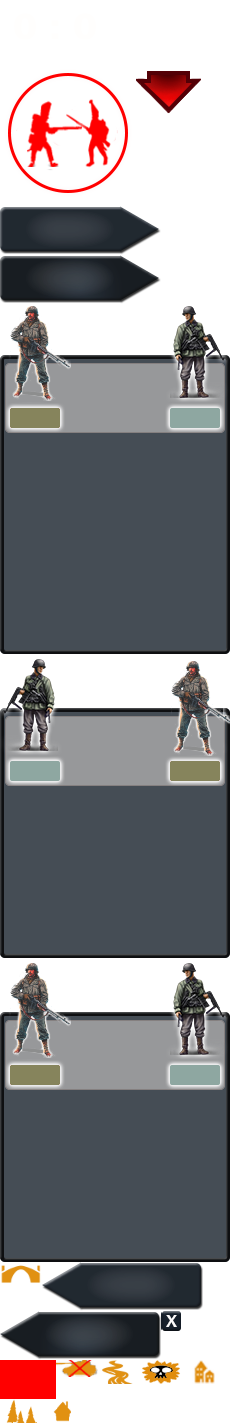
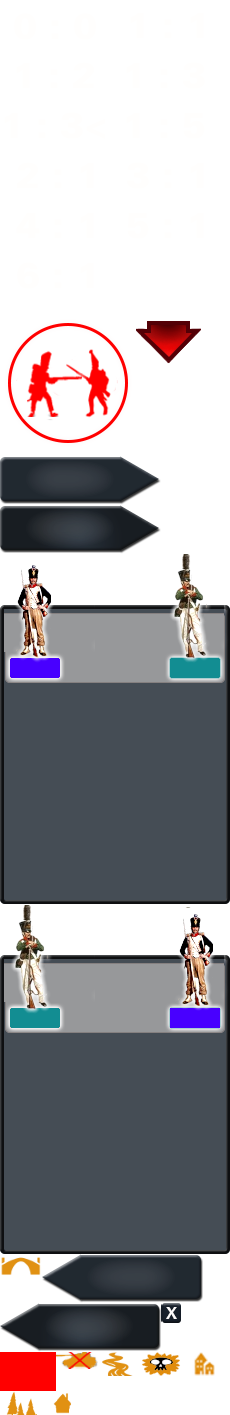
Refactor: Combat Display and CRT Window Management
- Added `checkOutsideWindow` method to `CombatDisplay` to determine if a click is outside the combat display window, considering drag events.
- Added `checkOutsideWindow` method to `WinCRT` to determine if a click is outside the CRT window.
- Modified `WinStackCombat` to use the new `checkOutsideWindow` methods from `CombatDisplay` and `WinCRT` to correctly handle clicks outside the combat stack and CRT windows.
- Updated `combat.txt` and `combat.png` to reflect changes in combat UI elements and layout.
  - Renamed `backgroundgerman` to `backgroundrussian`.
  - Added new odds ratio images (1to1, 1to2, 1to3, 1to4, 1to5, 2to1, 3to1, 4to1, 5to1, 6to1).
  - Adjusted positions and sizes of various UI elements.

diff --git a/core/src/brunibeargames/CombatDisplay.java b/core/src/brunibeargames/CombatDisplay.java
@@ -24,7 +24,7 @@ public class CombatDisplay {
     TextureRegion tRiver =  textureAtlas.findRegion("river");
     TextureRegion tTown =  textureAtlas.findRegion("town");
     TextureRegion tTrees =  textureAtlas.findRegion("trees");
-    TextureRegion tBackGerman =  textureAtlas.findRegion("backgroundgerman");
+    TextureRegion tBackRussian =  textureAtlas.findRegion("backgroundrussiann");
     TextureRegion tBackAllied =  textureAtlas.findRegion("backgroundallied");
     TextureRegion tVillage =  textureAtlas.findRegion("village");
     TextureRegion tSurpise =  textureAtlas.findRegion("surprise");
@@ -96,7 +96,7 @@ public class CombatDisplay {
         if (attack.isAllies()){
             background.setDrawable(new TextureRegionDrawable(tBackAllied));
         }else{
-            background.setDrawable(new TextureRegionDrawable(tBackGerman));
+            background.setDrawable(new TextureRegionDrawable(tBackRussian));
         }
 
         int yposition = showIcons(attack.getHexTarget(),  attack);
@@ -109,10 +109,11 @@ public class CombatDisplay {
     public Attack getAttack(){
         return attack;
     }
-
+    boolean haBeenDragged = false;
     public void end(){
         group.setVisible(false);
         WinCRT.instance.end();
+        haBeenDragged = false;
         if (hexGroup != null) {
             //hexGroup.clear();
         }
@@ -200,7 +201,7 @@ public class CombatDisplay {
 
     private void initializeBackgroundImage(){
 
-        background = new Image(tBackGerman);
+        background = new Image(tBackRussian);
         background.setHeight(360);
         background.setWidth(236);
         background.setPosition((Gdx.graphics.getWidth() - (background.getWidth() +160)), (Gdx.graphics.getHeight() - background.getHeight() - 16 ));
@@ -208,6 +209,11 @@ public class CombatDisplay {
         background.addListener(new DragListener() {
             public void drag(InputEvent event, float x, float y, int pointer) {
                 group.moveBy(x - 20, y - 20);
+                haBeenDragged = true;
+                Gdx.app.log("CombatDisplay", "dragging");
+                Gdx.app.log("CombatDisplay", "x+y="+background.getX()+"  "+background.getY());
+
+
             }
         });
 
@@ -331,6 +337,26 @@ public class CombatDisplay {
 
         group.addActor(alliedCombatFactors);
     }
+
+    public boolean checkOutsideWindow(int x, int y) {
+    /*        float winStartx = background.getX();
+            float winEndx = background.getX() + background.getWidth();
+            float winStarty = background.getY();
+            float winEndy = background.getY() + background.getHeight();
+            int reverse = Gdx.graphics.getHeight() - y;
+            if (x < winStartx || x > winEndx || reverse < winStarty || reverse > winEndy) {
+                return true;
+            } else {
+                return false;
+            } */
+            if (haBeenDragged){
+                haBeenDragged = false;
+                return false;
+            }else{
+                return true;
+            }
+    }
 }
+
 
 

diff --git a/core/src/brunibeargames/UI/WinStackCombat.java b/core/src/brunibeargames/UI/WinStackCombat.java
@@ -26,6 +26,7 @@ import java.util.Observer;
 import brunibeargames.Attack;
 import brunibeargames.Borodino;
 import brunibeargames.Combat;
+import brunibeargames.CombatDisplay;
 import brunibeargames.Fonts;
 import brunibeargames.GameMenuLoader;
 import brunibeargames.GamePreferences;
@@ -36,6 +37,7 @@ import brunibeargames.UILoader;
 import brunibeargames.Unit.ClickAction;
 import brunibeargames.Unit.Counter;
 import brunibeargames.Unit.Unit;
+import brunibeargames.WinCRT;
 
 import static com.badlogic.gdx.graphics.Color.WHITE;
 
@@ -211,7 +213,11 @@ public class WinStackCombat implements Observer {
         float  winEndy = window.getY()+window.getHeight();
         int reverse = Gdx.graphics.getHeight() - op.y;
         if (op.x < winStartx || op.x > winEndx || reverse < winStarty || reverse > winEndy) {
-            cancel();
+            if (WinCRT.instance.checkOutsideWindow(op.x, op.y)){
+                if (CombatDisplay.instance.checkOutsideWindow(op.x,op.y)){
+                    cancel();
+                 }
+            }
         }
     }
 

diff --git a/core/src/brunibeargames/WinCRT.java b/core/src/brunibeargames/WinCRT.java
@@ -307,7 +307,16 @@ TextureRegion close =  textureAtlas.findRegion("close");
     }
 
 
-
-
-
+    public boolean checkOutsideWindow(int x, int y) {
+        float winStartx = window.getX();
+        float winEndx = window.getX() + window.getWidth();
+        float winStarty = window.getY();
+        float winEndy = window.getY() + window.getHeight();
+        int reverse = Gdx.graphics.getHeight() - y;
+        if (x < winStartx || x > winEndx || reverse < winStarty || reverse > winEndy) {
+            return true;
+        } else {
+            return false;
+        }
+    }
 }
